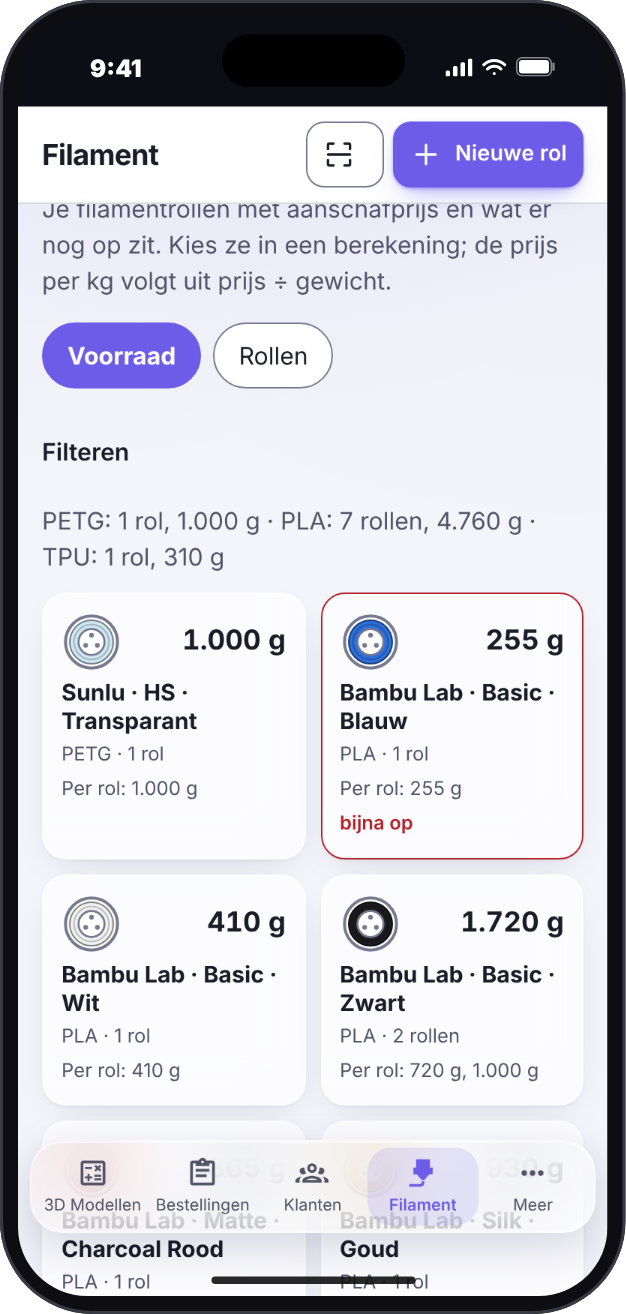
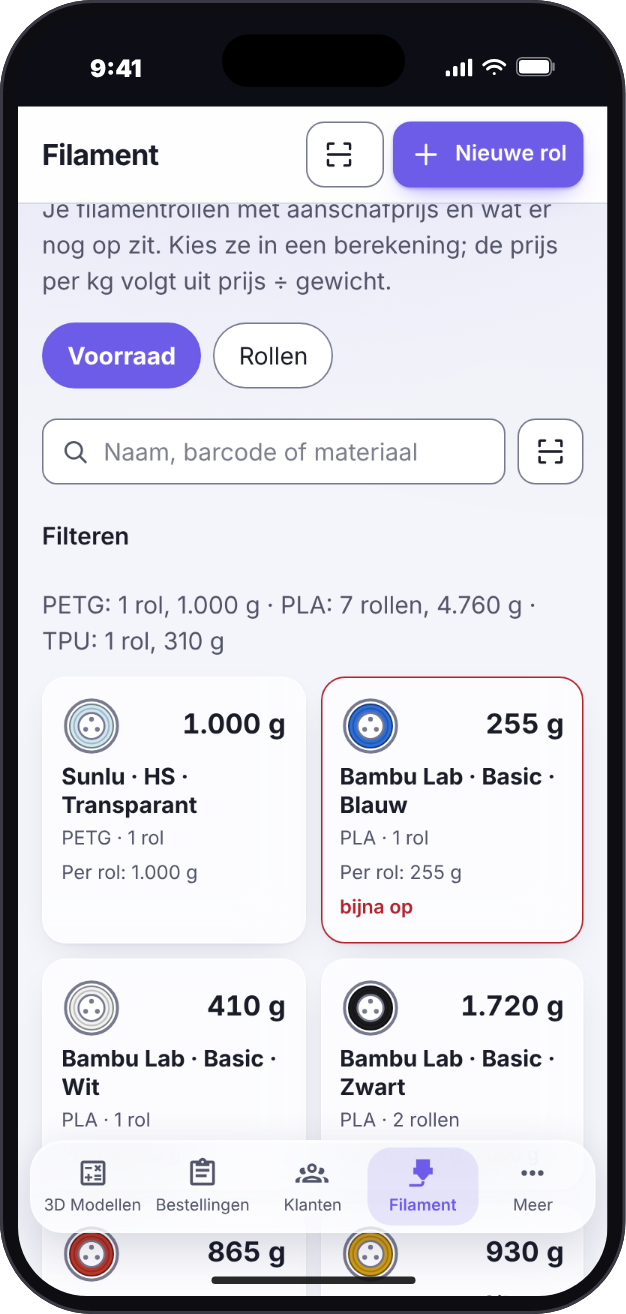
Filament: duplicate a roll, and a live search above Voorraad and Rollen
Duplicate: every roll typed in here gets a "Dupliceren" button. It opens the
roll form filled in with that roll (starting full, not archived, without the
library picker) and an "Aantal rollen" stepper; saving adds that many rolls at
once. POST /api/spools takes an optional `count` (1-200, filament only): all
rolls in one transaction, the copies take the notification the first one ends
with, and the library gets the filament once. A Spoolman roll has no button.

Search: a search field at the top of both parts of the filament page filters
while typing, on name (brand, type, colour), barcode and material; every word
must match, case and accents are ignored. It combines with the filters, works
on the stock tiles and the material totals too, is kept when switching between
the parts, and has a scan button to search by a scanned barcode.

Claude-Session: https://claude.ai/code/session_01KSdu54D6KDyV9k3pXQcghD

diff --git a/frontend/js/resources.js b/frontend/js/resources.js
@@ -73,9 +73,13 @@ function resources() {
         footnote: [item.barcode ? t('filament.barcode_note', { code: item.barcode }) : null, item.spoolman_id ? t('spoolman.note') : null].filter(Boolean).join(' · ') || null,
       };
     },
-    // A roll from Spoolman is Spoolman's to change (the server refuses it): all that is left here is the low-stock alert.
+    // A roll typed in here can be duplicated: the roll form, filled in with this roll, makes one or more new ones.
+    // A roll from Spoolman is Spoolman's to change (the server refuses it), and a new one is made there: all that is left here is the low-stock alert.
     actions(item, reload) {
-      if (!item.spoolman_id) return [];
+      if (!item.spoolman_id) {
+        return [h('button', { class: 'btn small', type: 'button', 'aria-label': t('filament.duplicate_named', { name: spoolName(item, ' · ') }),
+          onclick: () => openForm(this, null, reload, { copyOf: item }) }, icon('copy'), h('span', {}, t('filament.duplicate')))];
+      }
       return [h('button', { class: 'btn small', type: 'button', onclick: async () => {
         try { await api('PATCH', `${this.path}/${item.id}`, { notify_low: !item.notify_low }); reload(); } catch (e) { toast(e.message, 'error'); }
       } }, item.notify_low ? t('spoolman.notify_off') : t('spoolman.notify_on'))];
@@ -210,6 +214,34 @@ function stockPanel() {
   return { panel, refresh, setFilter(fn) { match = fn; draw(); } };
 }
 
+// The search field above both parts of the filament page. It filters while you type: every word has to be in the name (brand, type,
+// colour), the barcode or the material of a roll or kind, ignoring case and accents. What was typed is kept while switching between the parts.
+let filamentSearch = '';
+const folded = (v) => String(v ?? '').normalize('NFD').replace(/[\u0300-\u036f]/g, '').toLowerCase();
+
+function searchBar(onChange) {
+  const words = () => folded(filamentSearch).split(/\s+/).filter(Boolean);
+  const set = (value) => { filamentSearch = value; input.value = value; onChange(); };
+  const input = h('input', { type: 'search', id: 'filament-search', value: filamentSearch, autocomplete: 'off', autocapitalize: 'off', spellcheck: 'false',
+    enterkeyhint: 'search', placeholder: t('filament.search_ph'), 'aria-label': t('filament.search'),
+    oninput: (e) => { filamentSearch = e.target.value; onChange(); },
+    onkeydown: (e) => { if (e.key === 'Escape' && input.value) { e.preventDefault(); set(''); } } });
+  // On a phone a barcode is scanned rather than typed.
+  const scan = h('button', { class: 'btn', type: 'button', 'aria-label': t('filament.search_scan'), onclick: async () => {
+    const code = await scanBarcode();
+    if (code) set(code.trim());
+  } }, icon('scan'));
+  const bar = h('div', { class: 'search-bar', role: 'search' }, h('div', { class: 'search-field' }, icon('search'), input), scan);
+  return {
+    bar,
+    active: () => words().length > 0,
+    matches(row) {
+      const text = folded([row.brand, row.product_type, row.colour, row.material, row.barcode].join(' '));
+      return words().every((w) => text.includes(w));
+    },
+  };
+}
+
 // Filters for the filament list: by material ("soort"), brand and type. Options come from what you have,
 // each one narrows to what the earlier choices leave, and both the list and the stock overview follow.
 const norm = (v) => String(v || '').trim().toLowerCase();
@@ -279,9 +311,12 @@ async function askToPassOn(config, item, payload) {
   return answer === null ? null : (answer === 'all' ? changed : []);
 }
 
-export function openForm(config, item, reload) {
-  if (item) config = { ...config, fields: config.fields.filter((f) => !f.newOnly) };     // an option of making a new one, not of editing
-  const values = { ...(item || config.defaults) };
+/** The form of `config`: editing `item`, or a new one. `copyOf` (a roll) makes it a new roll with that roll's details, which starts full
+    (what is left is per roll), and asks how many: they are all added at once. */
+export function openForm(config, item, reload, { copyOf = null } = {}) {
+  if (item || copyOf) config = { ...config, fields: config.fields.filter((f) => !f.newOnly) };     // an option of making a new one from scratch, not of editing or copying
+  const copied = copyOf ? { ...Object.fromEntries(config.fields.map((f) => [f.key, copyOf[f.key] ?? ''])), remaining_g: copyOf.roll_weight_g, count: '1' } : null;
+  const values = { ...(item || copied || config.defaults) };
   const error = h('p', { class: 'error', role: 'alert', hidden: true });
   const els = {};          // inputs by key, so "copy from the previous roll" can fill them
   const datalists = [];
@@ -371,7 +406,7 @@ export function openForm(config, item, reload) {
     if (!els[key]) return;
     if (els[key].setValue) els[key].setValue(value); else els[key].value = value;
   };
-  const fresh = config.id === 'filament' && !item;
+  const fresh = config.id === 'filament' && !item && !copyOf;          // a roll from scratch: the library and the Bambu Lab shop can fill it in
   const libraryRows = fresh ? api('GET', '/api/filament-library').catch(() => []) : Promise.resolve([]);   // a convenience: the form works without it
   const fromShop = { filament_id: '', refill: null };          // what the Bambu Lab shop says about the filament that a roll does not hold
 
@@ -524,7 +559,31 @@ export function openForm(config, item, reload) {
     els[f.key] = input;
     return field(f.label, input, f.hint);
   });
-  const original = item || config.defaults;
+  // A copy asks how many rolls it makes (typed, or one less / one more); the button says how many it adds.
+  const submit = h('button', { class: 'btn primary', type: 'submit' }, t('common.save'));
+  let countField = null;
+  if (copyOf) {
+    const label = () => {
+      const n = Number(values.count);
+      submit.textContent = Number.isInteger(n) && n >= 1 ? t('filament.add_rolls', { n }) : t('common.save');
+    };
+    const input = h('input', { type: 'text', id: 'f-count', inputmode: 'numeric', autocomplete: 'off', required: true, value: values.count,
+      oninput: (e) => { values.count = e.target.value.trim(); dirty.add('count'); label(); } });
+    const step = (by) => {
+      values.count = String(Math.max(1, (Number.parseInt(values.count, 10) || 1) + by));
+      input.value = values.count;
+      dirty.add('count');
+      label();
+    };
+    countField = h('div', { class: 'field' }, h('label', { for: 'f-count' }, t('filament.count')),
+      h('div', { class: 'row nowrap count-stepper' },
+        h('button', { class: 'btn small', type: 'button', 'aria-label': t('filament.count_less'), onclick: () => step(-1) }, '−'),
+        input,
+        h('button', { class: 'btn small', type: 'button', 'aria-label': t('filament.count_more'), onclick: () => step(1) }, '+')),
+      h('p', { class: 'hint' }, t('filament.count_hint')));
+    label();
+  }
+  const original = item || copied || config.defaults;
   const changed = () => [...dirty].some((key) => String(values[key] ?? '') !== String(original[key] ?? ''));
   const dialog = enhanceDialog(h('dialog', { class: 'glass sheet' },
     h('form', { class: 'stack', method: 'dialog', onsubmit: async (e) => {
@@ -537,20 +596,23 @@ export function openForm(config, item, reload) {
           passOn = await askToPassOn(config, item, payload);
           if (passOn === null) return;                                     // closed the question: back to the form
           await api('PATCH', `${config.path}/${item.id}`, payload);
-        } else await api('POST', config.path, payload);
+        } else await api('POST', config.path, copyOf ? { ...payload, count: values.count } : payload);
         let others = 0;
         if (passOn.length) others = (await api('POST', `${config.path}/${item.id}/propagate`, { fields: passOn })).updated;
         dialog.close();
-        toast(others ? t('propagate.done', { n: others }) : t('common.saved'));
+        if (others) toast(t('propagate.done', { n: others }));
+        else toast(copyOf ? t('filament.duplicated', { n: Number(values.count) }) : t('common.saved'));
         reload();
       } catch (err) { error.textContent = err.message; error.hidden = false; }
     } },
-    h('h2', {}, item ? t(`${config.id}.edit`) : t(`${config.id}.new`)),
+    h('h2', {}, item ? t(`${config.id}.edit`) : (copyOf ? t('filament.duplicate_title') : t(`${config.id}.new`))),
+    copyOf ? h('p', { class: 'hint' }, t('filament.duplicate_intro', { name: spoolName(copyOf, ' · ') })) : null,
+    countField,
     fresh ? libraryPicker() : null,
     ...inputs, ...datalists, error,
     h('div', { class: 'row end' },
       h('button', { class: 'btn', type: 'button', onclick: () => dialog.requestClose() }, t('common.cancel')),
-      h('button', { class: 'btn primary', type: 'submit' }, t('common.save'))))), { dirty: changed });
+      submit))), { dirty: changed });
   dialog.addEventListener('close', () => dialog.remove());
   document.body.append(dialog);
   dialog.showModal();
@@ -576,10 +638,10 @@ export function resourceView(key, sub) {
   let items = [];
 
   const render = () => {
-    const visible = items.filter((i) => (showArchived || !i.archived) && (!filters || filters.matches(i)));
+    const visible = items.filter((i) => (showArchived || !i.archived) && matches(i));
     if (!visible.length) {
       list.replaceChildren(h('p', { class: 'empty glass card' },
-        filters?.active() && items.length ? t('filament.no_match') : `${config.empty} ${t('common.add_first')}`));
+        (filters?.active() || search?.active()) && items.length ? t('filament.no_match') : `${config.empty} ${t('common.add_first')}`));
       return;
     }
     if (part === 'rollen') {
@@ -620,10 +682,14 @@ export function resourceView(key, sub) {
   };
 
   const stock = part === 'voorraad' ? stockPanel() : null;
-  const filters = key === 'filament' ? filterBar(() => {
+  const narrowed = () => {
     render();
-    stock?.setFilter((g) => filters.matches(g));       // stock groups carry brand and material too
-  }) : null;
+    stock?.setFilter(matches);                         // stock groups carry brand, type, colour, material and barcode too
+  };
+  const search = key === 'filament' ? searchBar(narrowed) : null;
+  const filters = key === 'filament' ? filterBar(narrowed) : null;
+  const matches = (row) => (!search || search.matches(row)) && (!filters || filters.matches(row));
+  stock?.setFilter(matches);                           // a search typed on the other part still holds
 
   // The sort buttons at the top of the rolls: tap one to order by it, tap it again to reverse.
   const sortBar = part === 'rollen' ? h('div', { class: 'sortbar', role: 'group', 'aria-label': t('sort.label') }) : null;
@@ -671,5 +737,5 @@ export function resourceView(key, sub) {
       spoolmanBar(load)) : null,
     key === 'onderdelen' || key === 'accessoires' ? h('nav', { class: 'subnav', 'aria-label': t('parts.tabs') },
       ...[['onderdelen', 'parts.title'], ['accessoires', 'accessories.title']].map(([to, label]) => h('a', { href: `#/onderdelen${to === 'accessoires' ? '/accessoires' : ''}`, 'aria-current': key === to ? 'page' : null }, t(label)))) : null,
-    sortBar, filters ? h('details', { class: 'filters-details', open: filters.active() }, h('summary', {}, t('filter.title')), filters.bar) : null, stock?.panel || null, part === 'rollen' || !part ? archiveToggle : null, part === 'voorraad' ? null : list);
+    search?.bar || null, sortBar, filters ? h('details', { class: 'filters-details', open: filters.active() }, h('summary', {}, t('filter.title')), filters.bar) : null, stock?.panel || null, part === 'rollen' || !part ? archiveToggle : null, part === 'voorraad' ? null : list);
 }

diff --git a/frontend/css/app.css b/frontend/css/app.css
@@ -230,7 +230,7 @@ main:focus { outline: none; }
 .field { display: flex; flex-direction: column; gap: 4px; min-width: 0; }
 .field label, .field .lbl { font-size: .82rem; font-weight: 600; color: var(--text-muted); }
 .hint { font-size: .8rem; color: var(--text-muted); margin: 0; }
-input[type=text], input[type=password], input[type=email], input[type=tel], select, textarea {
+input[type=text], input[type=password], input[type=email], input[type=tel], input[type=search], select, textarea {
   font: inherit; color: var(--text); background: var(--surface-field); border: 1px solid var(--rand);
   border-radius: var(--radius-sm); padding: 8px 12px; min-height: 44px; width: 100%; }
 input[type=color] { width: 44px; height: 44px; border: 1px solid var(--rand); border-radius: 50%; padding: 2px; background: var(--surface-field); cursor: pointer; }
@@ -594,6 +594,16 @@ code { overflow-wrap: anywhere; white-space: normal; }
 .more-tiles { align-self: center; }
 .sortbar { display: flex; flex-wrap: wrap; align-items: center; gap: 6px; margin: 0 0 12px; }
 .sortbar .btn { min-height: 36px; }
+/* The search field above both parts of the filament page: a magnifier inside the field, the camera next to it. */
+.search-bar { display: flex; align-items: center; gap: 8px; margin: 0 0 12px; }
+.search-field { position: relative; flex: 1; min-width: 0; display: flex; align-items: center; }
+.search-field > .icon { position: absolute; left: 12px; width: 20px; height: 20px; color: var(--text-muted); pointer-events: none; }
+.search-field input[type=search] { padding-left: 40px; -webkit-appearance: none; appearance: none; }
+.search-field input[type=search]::-webkit-search-decoration { -webkit-appearance: none; }
+.search-bar > .btn { flex: none; min-width: 44px; padding-inline: 10px; }
+.count-stepper { gap: 6px; }
+.row.nowrap.count-stepper input { flex: none; width: 5.5rem; text-align: center; font-variant-numeric: tabular-nums; }
+.count-stepper .btn { min-width: 44px; min-height: 44px; font-size: 1.1rem; }
 .colour-row { gap: 12px; }
 .colour-row input[type="color"] { width: 56px; height: 40px; padding: 2px; border-radius: var(--radius-sm); border: 1px solid var(--rand); background: var(--surface-field); }
 
@@ -644,7 +654,7 @@ select.status[data-status="afgehandeld"] { --st: var(--st-done); }
 .chips .seg:hover:not([aria-pressed="true"]) { background: var(--accent-subtle); }
 
 /* Form controls: a visible focus state on the field itself, a drawn arrow on every select, a finished file picker */
-input[type=text], input[type=password], input[type=email], input[type=tel], input[type=url], input[type=time], input[type=date], select, textarea {
+input[type=text], input[type=password], input[type=email], input[type=tel], input[type=search], input[type=url], input[type=time], input[type=date], select, textarea {
   transition: border-color .15s var(--ease), box-shadow .15s var(--ease); }
 input:focus-visible, select:focus-visible, textarea:focus-visible { outline: none; border-color: var(--accent);
   box-shadow: 0 0 0 3px color-mix(in srgb, var(--accent) 28%, transparent); }

diff --git a/frontend/js/ui.js b/frontend/js/ui.js
@@ -45,6 +45,8 @@ const ICONS = {
   users: '<circle cx="9" cy="8" r="3.5"/><path d="M2.5 20a6.5 6.5 0 0 1 13 0M16 4.6a3.5 3.5 0 0 1 0 6.8M18 14.2a6.5 6.5 0 0 1 3.5 5.8"/>',
   sync: '<path d="M20 11a8 8 0 0 0-14.5-4M4 4v4h4M4 13a8 8 0 0 0 14.5 4M20 20v-4h-4"/>',
   clipboard: '<rect x="6" y="4" width="12" height="17" rx="2"/><path d="M9 4h6v3H9zM9 12h6M9 16h4"/>',
+  copy: '<rect x="8" y="8" width="12" height="12" rx="2"/><path d="M16 8V6a2 2 0 0 0-2-2H6a2 2 0 0 0-2 2v8a2 2 0 0 0 2 2h2"/>',
+  search: '<circle cx="11" cy="11" r="6.5"/><path d="m16 16 4.5 4.5"/>',
 };
 
 export function icon(name) {

diff --git a/backend/tests/test_domain_api.py b/backend/tests/test_domain_api.py
@@ -463,6 +463,36 @@ def test_a_scan_list_puts_the_filament_in_the_library_only_when_it_says_so(owner
     assert len(spools(owner)) == 6
 
 
+# --- the same roll more than once (Dupliceren) --------------------------------------------------------------
+
+def test_a_roll_can_be_added_more_than_once_and_the_copies_are_the_same_kind(owner):
+    roll(owner, 300, barcode="777", notify_low=True)                                    # the kind already has the notification on
+    first = make(owner, "/api/spools", {"brand": "Bambu PLA Basic", "material": "PLA", "colour": "Black", "roll_weight_g": 1000, "price": "21.50",
+                                        "remaining_g": 1000, "barcode": "777", "notes": "levering 4 nov", "count": "3", "add_to_library": True})
+    assert first["barcode"] == "777" and first["notify_low"] is True
+    new = [s for s in spools(owner) if s["remaining_g"] == "1000.0"]
+    assert len(new) == 3 and len({s["id"] for s in new}) == 3
+    assert {(s["price"], s["notes"], s["notify_low"], s["archived"]) for s in new} == {("21.50", "levering 4 nov", True, False)}
+    assert len(owner.get("/api/filament-library").get_json()) == 1                      # the library gets the filament once
+    group = next(g for g in owner.get("/api/spools/stock").get_json()["groups"] if g["barcode"] == "777")
+    assert group["roll_count"] == 4 and Decimal(group["remaining_g"]) == 3300
+
+
+def test_without_a_count_one_roll_is_added_and_other_lists_ignore_it(owner):
+    roll(owner, 1000, count=None)
+    roll(owner, 1000, count="")
+    assert len(spools(owner)) == 2
+    make(owner, "/api/printers", {"name": "X1C", "purchase_price": 750, "lifetime_hours": 3000, "count": 5})
+    assert len(owner.get("/api/printers").get_json()) == 1
+
+
+@pytest.mark.parametrize("count", [0, -1, "1.5", "abc", 201])
+def test_a_count_that_is_not_a_whole_number_from_1_to_200_adds_nothing(owner, count):
+    res = owner.post("/api/spools", json={"brand": "x", "roll_weight_g": 1000, "price": 1, "remaining_g": 1000, "count": count}, headers=H)
+    assert res.status_code == 400, res.get_json()
+    assert spools(owner) == []
+
+
 def test_scanning_needs_a_session(client):
     assert client.get("/api/spools/from-barcode?barcode=1").status_code == 401
     assert client.post("/api/spools/bulk", json={"items": [{"barcode": "1", "count": 1}]}, headers=H).status_code in (401, 403)

diff --git a/backend/app/api.py b/backend/app/api.py
@@ -225,6 +225,8 @@ def _register(path, table, fields, order):
     def create():
         body = json_body()
         values = _validated(fields, body, partial=False)
+        # A roll may be added more than once (Dupliceren): `count` identical rolls, all or none, as many as a scanned delivery may hold.
+        count = (optional_int("f.count", minimum=1, maximum=BULK_MAX_ROLLS)(body.get("count")) or 1) if table == "filament_spools" else 1
         cols = ", ".join(values)
         marks = ", ".join(["%s"] * len(values))
         with pool().connection() as conn:
@@ -240,6 +242,11 @@ def _register(path, table, fields, order):
                                tuple(values.values())).fetchone()
             if table == "filament_spools":
                 row = _share_notify(conn, row, explicit="notify_low" in values, creating=True)
+                if count > 1:                                   # the other rolls are the same kind, so they take the notification the first one ended with
+                    copy = {**values, "notify_low": row["notify_low"]}
+                    cols, marks = ", ".join(copy), ", ".join(["%s"] * len(copy))
+                    for _ in range(count - 1):
+                        conn.execute(f"INSERT INTO {table} ({cols}) VALUES ({marks})", tuple(copy.values()))
                 if body.get("add_to_library") is True:          # a roll typed in by hand may also be put in the library, if it is not there yet
                     from . import filament_library              # imported here: that module imports this one
                     filament_library.add_roll(conn, row, body.get("library"))

diff --git a/docs/handleiding.md b/docs/handleiding.md
@@ -37,7 +37,7 @@ te houden waar die prijzen op gebaseerd zijn. Inloggen gaat met **passkeys** of,
   prijs), dan wordt er geen enkele rol toegevoegd. Hooguit 200 rollen per keer. Op een telefoon start de camera meteen, op een computer pas
   met *Camera gebruiken*. Bovenaan staat de
   **voorraad per soort**: de rollen die je nog hebt met hun gewicht, het totaal per soort en per materiaal (een soort is
-  één barcode, of merk + materiaal + kleur). Merk (bijvoorbeeld *Bambu Lab*) en **type** (*Matte*, *Basic*, *Silk*) zijn aparte velden; een bestaande rol houdt wat in het merkveld stond en het type is leeg tot je het invult. Pas je bij een rol met barcode merk, type, materiaal, kleur, gewicht, diameter of temperaturen aan, dan vraagt de app bij het opslaan of de andere rollen met dezelfde barcode ook bijgewerkt moeten worden (alleen wat je veranderde; prijs, wat er nog over is en notities zijn per rol en blijven staan). Je kunt de lijst en de voorraad filteren op **soort** (materiaal), **merk** en **type**; elke keuzelijst past zich aan de vorige keuzes aan. Verbruik van een berekening kun je met één klik van de voorraad afboeken.
+  één barcode, of merk + materiaal + kleur). Merk (bijvoorbeeld *Bambu Lab*) en **type** (*Matte*, *Basic*, *Silk*) zijn aparte velden; een bestaande rol houdt wat in het merkveld stond en het type is leeg tot je het invult. Pas je bij een rol met barcode merk, type, materiaal, kleur, gewicht, diameter of temperaturen aan, dan vraagt de app bij het opslaan of de andere rollen met dezelfde barcode ook bijgewerkt moeten worden (alleen wat je veranderde; prijs, wat er nog over is en notities zijn per rol en blijven staan). Bovenaan *Voorraad* en *Rollen* staat een **zoekveld** dat filtert terwijl je typt: op naam (merk, type, kleur), barcode en materiaal, zonder op hoofdletters of accenten te letten; met meer woorden (*bambu zwart*) moet elk woord passen. Met de scanknop ernaast zoek je op een gescande barcode, en wat je typte blijft staan als je tussen *Voorraad* en *Rollen* wisselt. Daarnaast kun je de lijst en de voorraad filteren op **soort** (materiaal), **merk** en **type**; elke keuzelijst past zich aan de vorige keuzes aan. **Dupliceren** (op een rol onder *Rollen*) opent het rolformulier, ingevuld met die rol, met bovenaan *Aantal rollen*: zo voeg je een of meer rollen van hetzelfde filament toe. De nieuwe rollen beginnen vol en zijn niet gearchiveerd; pas aan wat anders is (de prijs, bijvoorbeeld) en ze komen er in één keer bij (alles of niets, hooguit 200). Een rol uit Spoolman dupliceer je in Spoolman. Verbruik van een berekening kun je met één klik van de voorraad afboeken.
   Het menu *Filament* heeft twee onderdelen: **Voorraad** (de soorten als tegels met een spoel-icoon in de kleur van de rol: twee naast elkaar op een telefoon, meer op een breder scherm, hooguit drie rijen met een chevron voor de rest) en **Rollen** (de rolinfo met sorteerknoppen bovenaan: naam, materiaal, resterend, prijs per kg, nieuwste; tik nog eens om om te draaien). De kleur kies je per rol (*Kleur van de rol*); kies je niets, dan wordt hij uit de naam geraden (*zwart*, *Red*, …). Het icoon is in de stijl van de Material Design-iconen getekend, want die hebben geen filamentspoel.
 - **Verpakking** — je soorten dozen en ander verpakkingsmateriaal met prijs per stuk. Verpakking hoort bij de **bestelling**, niet bij het model: met
   *Verpakking toevoegen* in de bestelling kies je er een uit de lijst (zie *Verpakking op een bestelling*). Een berekening die al verpakking bevatte, houdt die

diff --git a/README.nl.md b/README.nl.md
@@ -66,7 +66,7 @@ Wie 3D-prints verkoopt moet weten wat elke print kost: filament per gram, machin
 - **Kostprijs in een paar seconden**: filament, onderdelen, accessoires (kabels, laders), printerafschrijving en energie tellen op tot een kostprijs, met optioneel een marge voor een adviesverkoopprijs. Elke regel wordt eerst op hele centen afgerond, zodat de regels op het scherm optellen tot het totaal, en een opgeslagen berekening bewaart de prijzen van het moment van opslaan, dus een latere prijswijziging van een rol herschrijft je geschiedenis niet.
 - **Rechtstreeks uit de slicer**: koppel een `.3mf`- of `.stl`-bestand. Een gesliced 3MF (Bambu Studio / Orca) geeft de echte gram per filament en de printtijd, die automatisch in de berekening komen; een STL geeft een schatting van het gewicht.
 - **Filamentbibliotheek**: de gegevens van de filamenten die je koopt (merk, type, kleur, filament-ID van de leverancier, gewicht, diameter, temperaturen, richtprijs), zodat een nieuwe rol zichzelf invult. Vul haar zonder te typen (importeer een Bambu Lab-factuur of een JSON-bestand, voeg de rollen uit je filamentlijst toe, synchroniseer de gedeelde bibliotheek met GitHub of draag de jouwe eraan bij) en exporteer haar als JSON; importeren en synchroniseren voegen alleen toe en werken bij, verwijderen nooit, leggen nooit twee keer hetzelfde filament vast en laten je voorraad met rust.
-- **Filamentvoorraad met barcodescanner**: je rollen met prijs, resterend gewicht, kleur en temperaturen, gegroepeerd per soort. Maak een rol aan met de hand, door de barcode te scannen, uit de bibliotheek of, bij Bambu Lab, uit de producten en kleuren van de webshop, of voeg een hele levering in één keer toe door de rollen na elkaar te scannen; krijg een melding als een soort bijna op is en boek het verbruik van een berekening met één klik van de voorraad af.
+- **Filamentvoorraad met barcodescanner**: je rollen met prijs, resterend gewicht, kleur en temperaturen, gegroepeerd per soort. Maak een rol aan met de hand, door de barcode te scannen, uit de bibliotheek of, bij Bambu Lab, uit de producten en kleuren van de webshop, dupliceer een rol om er een of meer van hetzelfde bij te zetten, of voeg een hele levering in één keer toe door de rollen na elkaar te scannen; zoek op naam, barcode of materiaal terwijl je typt; krijg een melding als een soort bijna op is en boek het verbruik van een berekening met één klik van de voorraad af.
 - **Zakelijk bruikbaar**: btw over de verkoopprijs, een marge en een afronding van de prijs per bestelling (op 5/10/50 cent, hele euro's of eindigend op ,95/,99, met je marge als minimum), en een knop om de kosten te blurren als een klant meekijkt.
 - **Klanten, bestellingen en facturen**: klanten met klantnummer, bestellingen met meerdere prints, een status van *nieuw* tot *afgehandeld* en een factuur als PDF met je logo, een uniek factuurnummer en een SEPA-betaal-QR. Wil je je eigen briefpapier, dan kan dat als Word- of PDF-sjabloon.
 - **Inloggen met passkeys**: geen wachtwoord dat kan lekken. Of een wachtwoord waar een passkey niet kan werken (een IP-adres in je eigen netwerk), optioneel met tweestapsverificatie, en herstelcodes voor noodgevallen.

diff --git a/README.md b/README.md
@@ -66,7 +66,7 @@ Selling 3D prints means knowing what each one costs: filament by the gram, machi
 - **Cost price in seconds**: filament, parts, accessories (cables, chargers), printer depreciation and energy add up to a cost price, with an optional margin for a recommended selling price. Every line is rounded to the cent first, so the lines on screen add up to the total, and a saved calculation keeps the prices of the moment you saved it, so changing a roll price later never rewrites your history.
 - **Straight from the slicer**: attach a `.3mf` or `.stl` file. A sliced 3MF (Bambu Studio / Orca) gives the real grams per filament and the print time, which go into the calculation automatically; an STL gives a weight estimate.
 - **Filament library**: the specs of the filaments you buy (brand, type, colour, supplier filament ID, weight, diameter, temperatures, indicative price), so a new roll fills itself in. Fill it without typing (import a Bambu Lab invoice or a JSON file, add the rolls of your filament list, sync the shared library from GitHub, or contribute yours to it) and export it as JSON; an import or sync only adds and updates, never deletes, never holds the same filament twice, and leaves your stock alone.
-- **Filament stock with barcode scanning**: your rolls with price, remaining weight, colour and temperatures, grouped per kind. Create a roll by hand, by scanning its barcode, from the library or, for Bambu Lab, from the web shop's products and colours, or add a whole delivery at once by scanning the rolls one after the other; get a notification when a kind is nearly out, and book the usage of a calculation off the stock with one click.
+- **Filament stock with barcode scanning**: your rolls with price, remaining weight, colour and temperatures, grouped per kind. Create a roll by hand, by scanning its barcode, from the library or, for Bambu Lab, from the web shop's products and colours, duplicate a roll to add one or more of the same, or add a whole delivery at once by scanning the rolls one after the other; search by name, barcode or material as you type; get a notification when a kind is nearly out, and book the usage of a calculation off the stock with one click.
 - **Business-ready**: VAT on the selling price, a margin and a price rounding per order (to 5/10/50 cents, whole euros, or ending in ,95/,99, with your margin as the minimum), and a button to blur the costs when a customer looks over your shoulder.
 - **Customers, orders and invoices**: customers with a customer number, orders with several prints each, a status from *new* to *completed*, and a PDF invoice with your logo, a unique invoice number and a SEPA payment QR code. Bring your own Word or PDF letterhead if you like.
 - **Passkey login**: no password to leak. Or a password where a passkey cannot work (an IP address on your own network), optionally with two-step verification, and recovery codes for emergencies.
